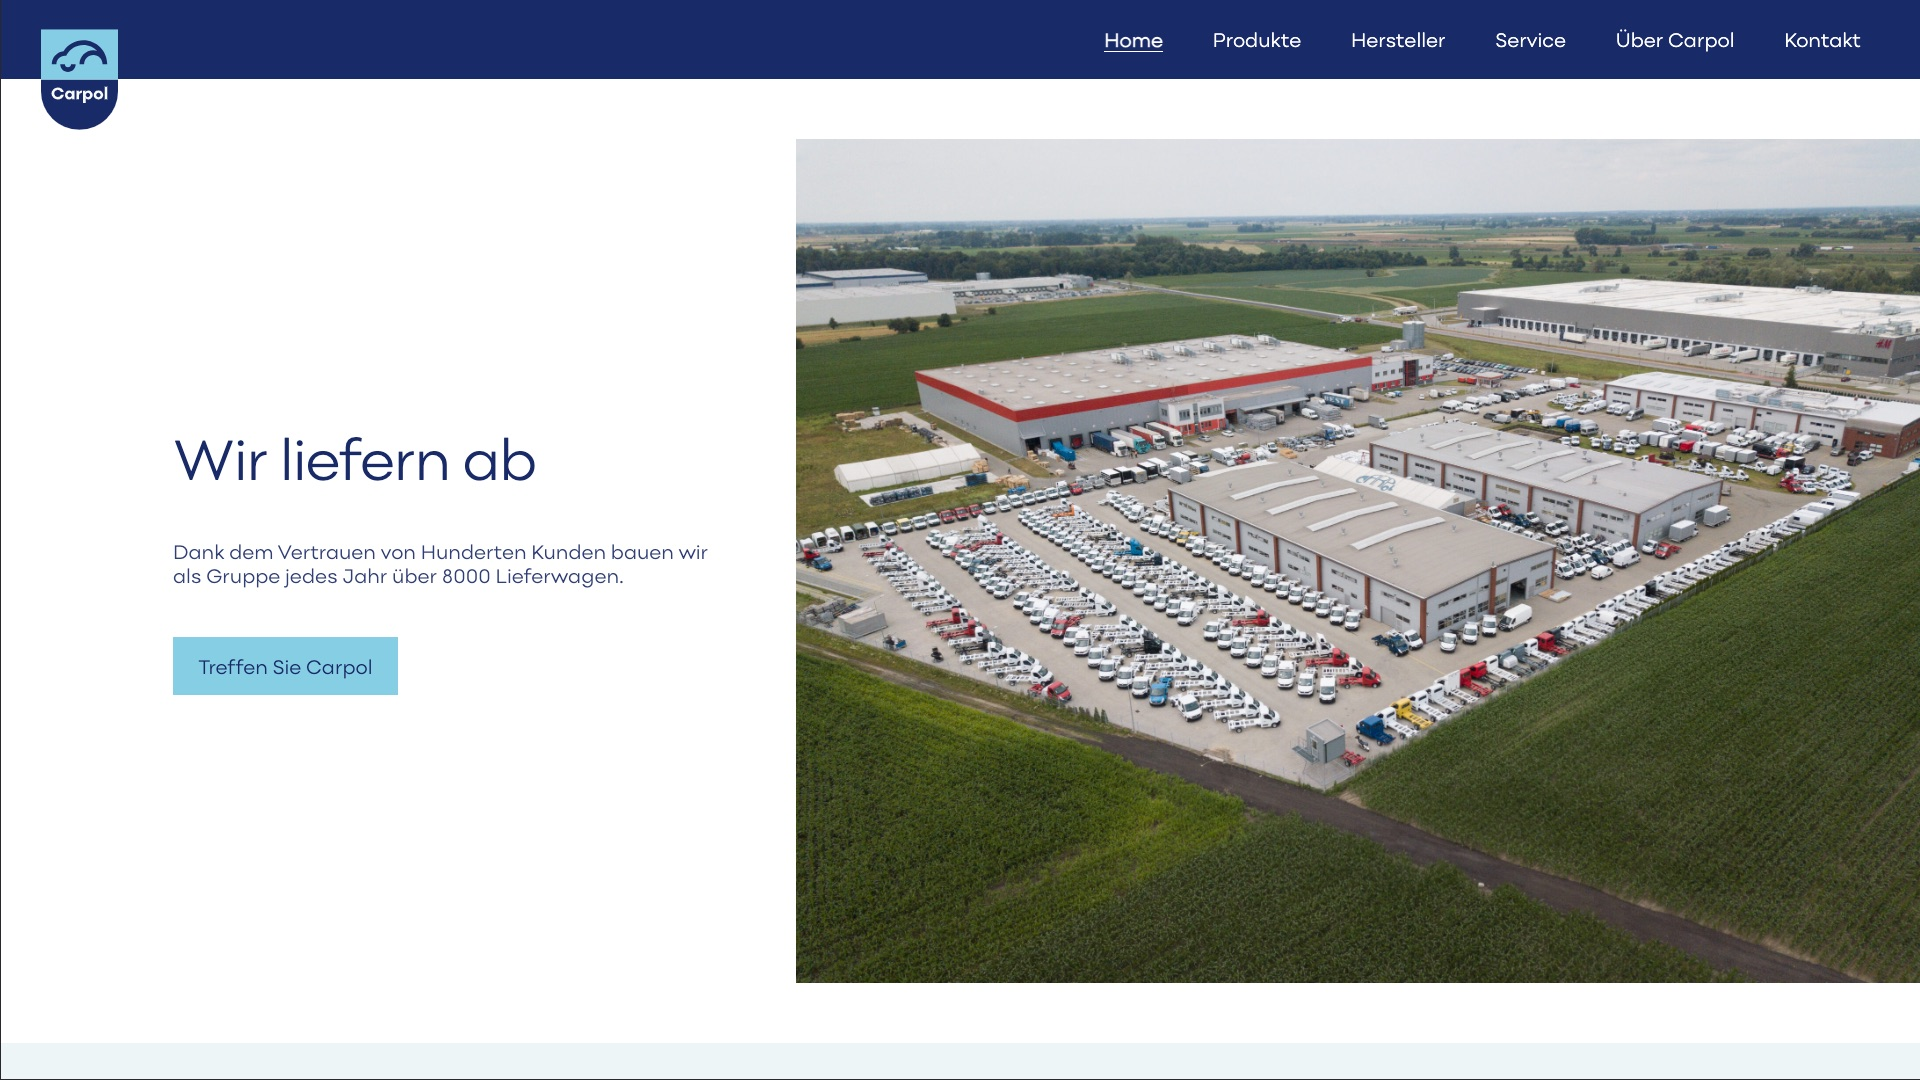
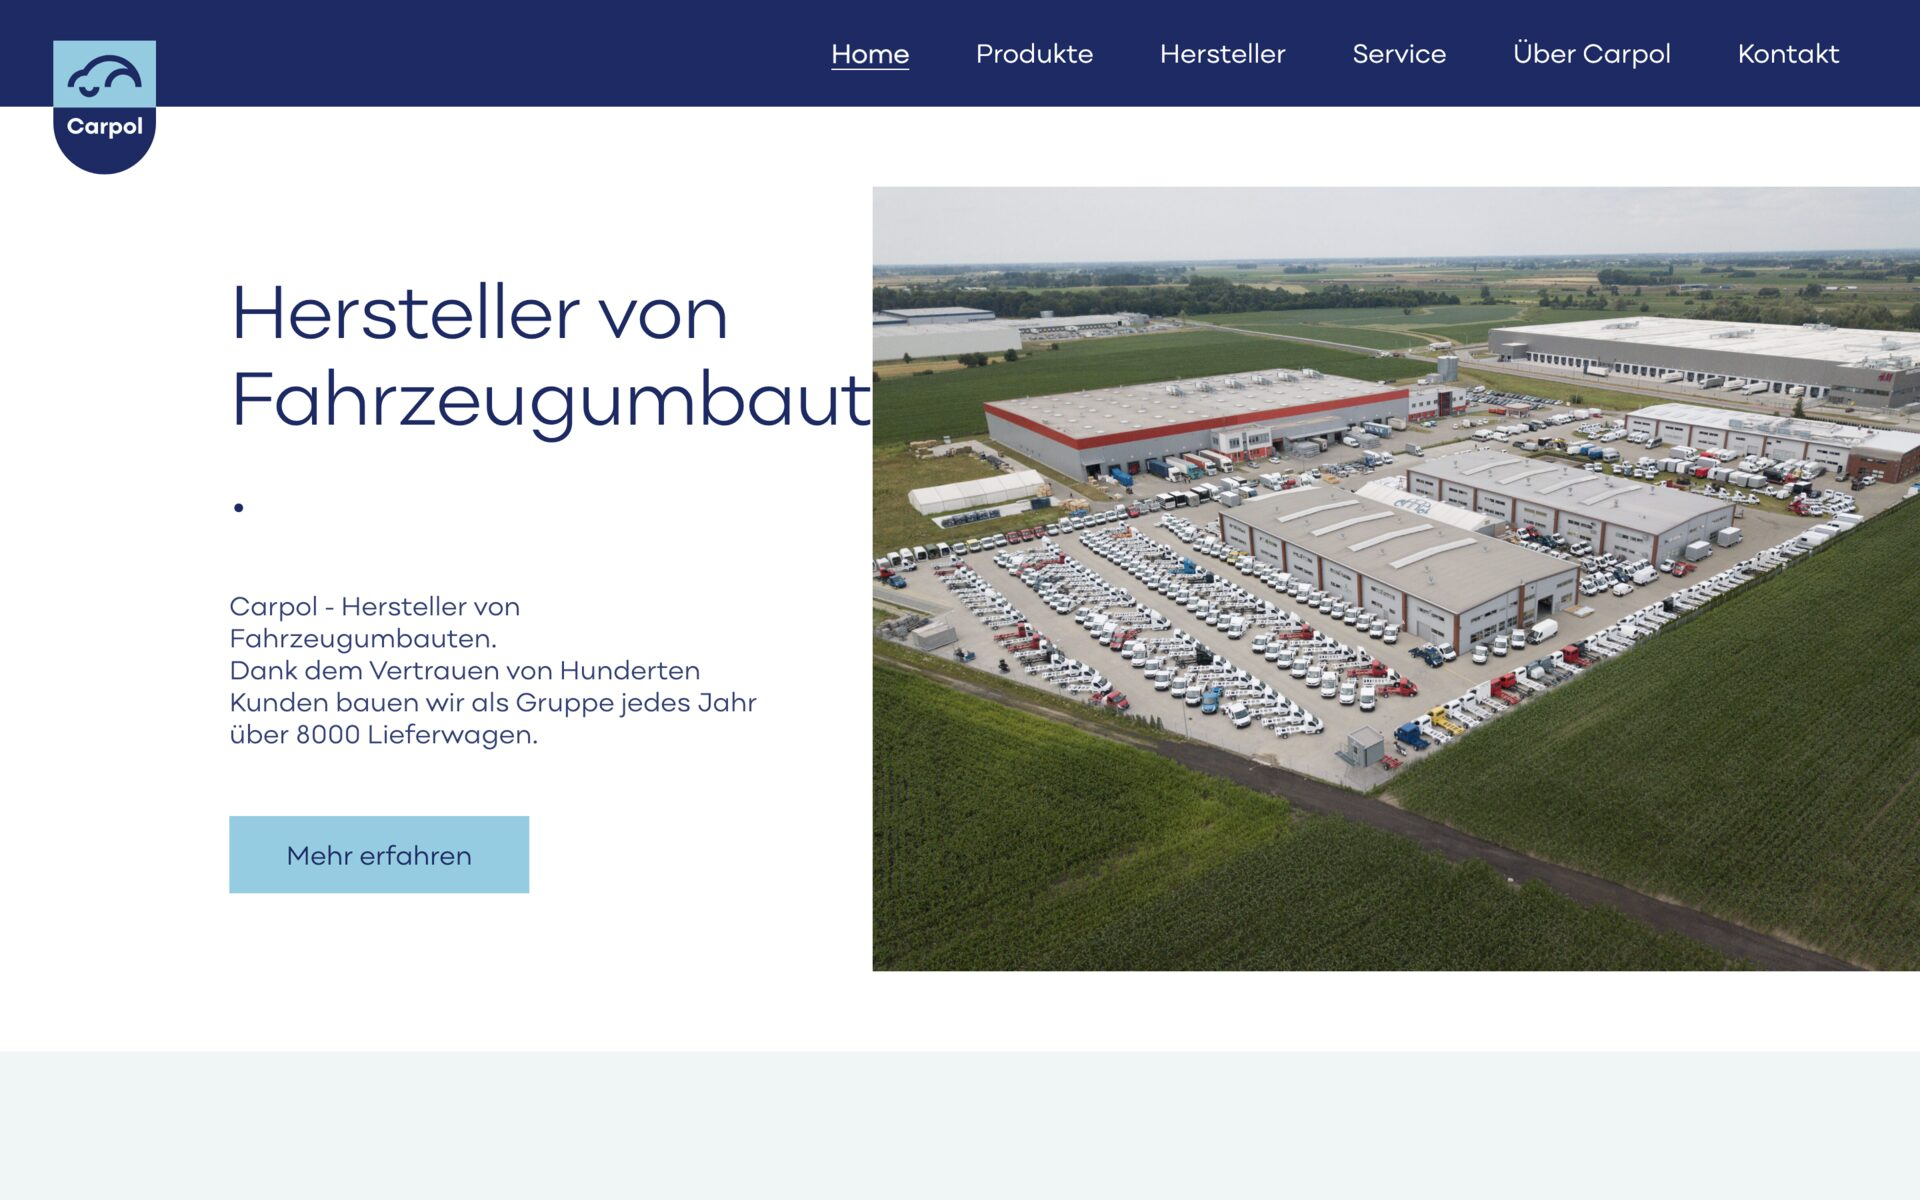
fix: recapture every screenshot from the live sites, one convention
The Carpol and Bluba shots came from Contentful and were taken in
December 2023. Both sites have been fully redesigned since — Carpol is
now navy-branded German-language, Bluba has a new identity and is
running a Milan Design Week 2026 release. The cards were showing sites
that no longer exist.

Every card is now captured the same way (scripts/screenshot.sh):
1440x1200 viewport at 2x, keep the top 16:10, scale to 1920x1200, JPEG
q82. The viewport is deliberately taller than the crop so bottom-fixed
cookie banners fall outside it — that removes the hand-cropped Collo
shot, which was the odd 2:1 card in the grid.

Also dropped the logo/screenshot split: Carpol and Bluba were the only
two with logos, so the grid rendered two logo tiles among four
screenshots. Every card is a screenshot now, with the type-card fallback
only where there is no live site to photograph.

Copy corrected against the live sites while I was in there:
- Carpol: over 8,000 delivery vans a year as a group, German-language.
- Bluba: 3D-printed modular interior lighting, not "decorations and
  accessories", and now sells across markets with currency switching.

diff --git a/src/data/portfolio.ts b/src/data/portfolio.ts
@@ -7,8 +7,6 @@ export interface Project {
   url?: string;
   /** Basename of a file in src/images/portfolio (screenshot, 16:9). */
   image?: string;
-  /** Basename of a logo in src/images/portfolio, shown in the grid. */
-  logo?: string;
   stack: string[];
   description: Record<Locale, string[]>;
   /** Shown instead of a live link, e.g. while a site is unlaunched. */
@@ -107,7 +105,6 @@ export const projects: Project[] = [
     name: "Carpol DE",
     url: "https://carpol-fahrzeugbau.com",
     image: "carpol-de",
-    logo: "carpol-de-logo",
     stack: [
       "WordPress",
       "PHP",
@@ -120,12 +117,12 @@ export const projects: Project[] = [
     ],
     description: {
       en: [
-        "Carpol is a company specialising in car body conversions for professional use.",
-        "The site runs on WordPress as a CMS with custom post types, galleries and forms generated over AJAX. Written from scratch, styled with Tailwind CSS.",
+        "Carpol builds vehicle bodies and conversions for professional fleets — as a group, over 8,000 delivery vans a year.",
+        "A German-language WordPress build with custom post types, galleries and forms loaded over AJAX. Written from scratch, styled with Tailwind CSS.",
       ],
       pl: [
-        "Carpol to firma specjalizująca się w zabudowach samochodów do zastosowań profesjonalnych.",
-        "Strona działa na WordPressie jako CMS, z własnymi typami wpisów, galeriami i formularzami generowanymi przez AJAX. Napisana od zera, ostylowana Tailwind CSS.",
+        "Carpol produkuje zabudowy pojazdów dla flot profesjonalnych — jako grupa ponad 8000 samochodów dostawczych rocznie.",
+        "Niemieckojęzyczna strona na WordPressie z własnymi typami wpisów, galeriami i formularzami ładowanymi przez AJAX. Napisana od zera, ostylowana Tailwind CSS.",
       ],
     },
   },
@@ -134,16 +131,15 @@ export const projects: Project[] = [
     name: "Bluba",
     url: "https://bluba.studio",
     image: "bluba",
-    logo: "bluba-logo",
     stack: ["Shopify", "Liquid", "JavaScript"],
     description: {
       en: [
-        "Bluba creates custom, minimalistic 3D printed home decorations and accessories.",
-        "A Shopify storefront with a custom Liquid theme.",
+        "Bluba Studio makes modular interior lighting printed in 3D — configurable lamps in soothing colours, aimed at a sustainable way of living.",
+        "A Shopify storefront on a custom Liquid theme, selling across markets with currency and region switching.",
       ],
       pl: [
-        "Bluba tworzy autorskie, minimalistyczne dekoracje i akcesoria do domu drukowane w 3D.",
-        "Sklep na Shopify z autorskim motywem w Liquidzie.",
+        "Bluba Studio tworzy modułowe oświetlenie wnętrz drukowane w 3D — konfigurowalne lampy w kojących kolorach, z myślą o zrównoważonym stylu życia.",
+        "Sklep na Shopify z autorskim motywem w Liquidzie, sprzedający na wiele rynków, z przełącznikiem waluty i regionu.",
       ],
     },
   },

diff --git a/src/pages/portfolio.tsx b/src/pages/portfolio.tsx
@@ -44,7 +44,7 @@ const PortfolioPage: React.FC<PortfolioPageProps> = ({ data }) => {
       ) : (
         <div className="grid md:grid-cols-2 gap-8 lg:grid-cols-3 2xl:grid-cols-4">
           {projects.map((project, index) => {
-            const thumb = images.get(project.logo || project.image || "");
+            const thumb = images.get(project.image || "");
             const image = thumb ? getImage(thumb.gatsbyImageData) : undefined;
             const to = path(`/portfolio/${project.slug}`);
 
